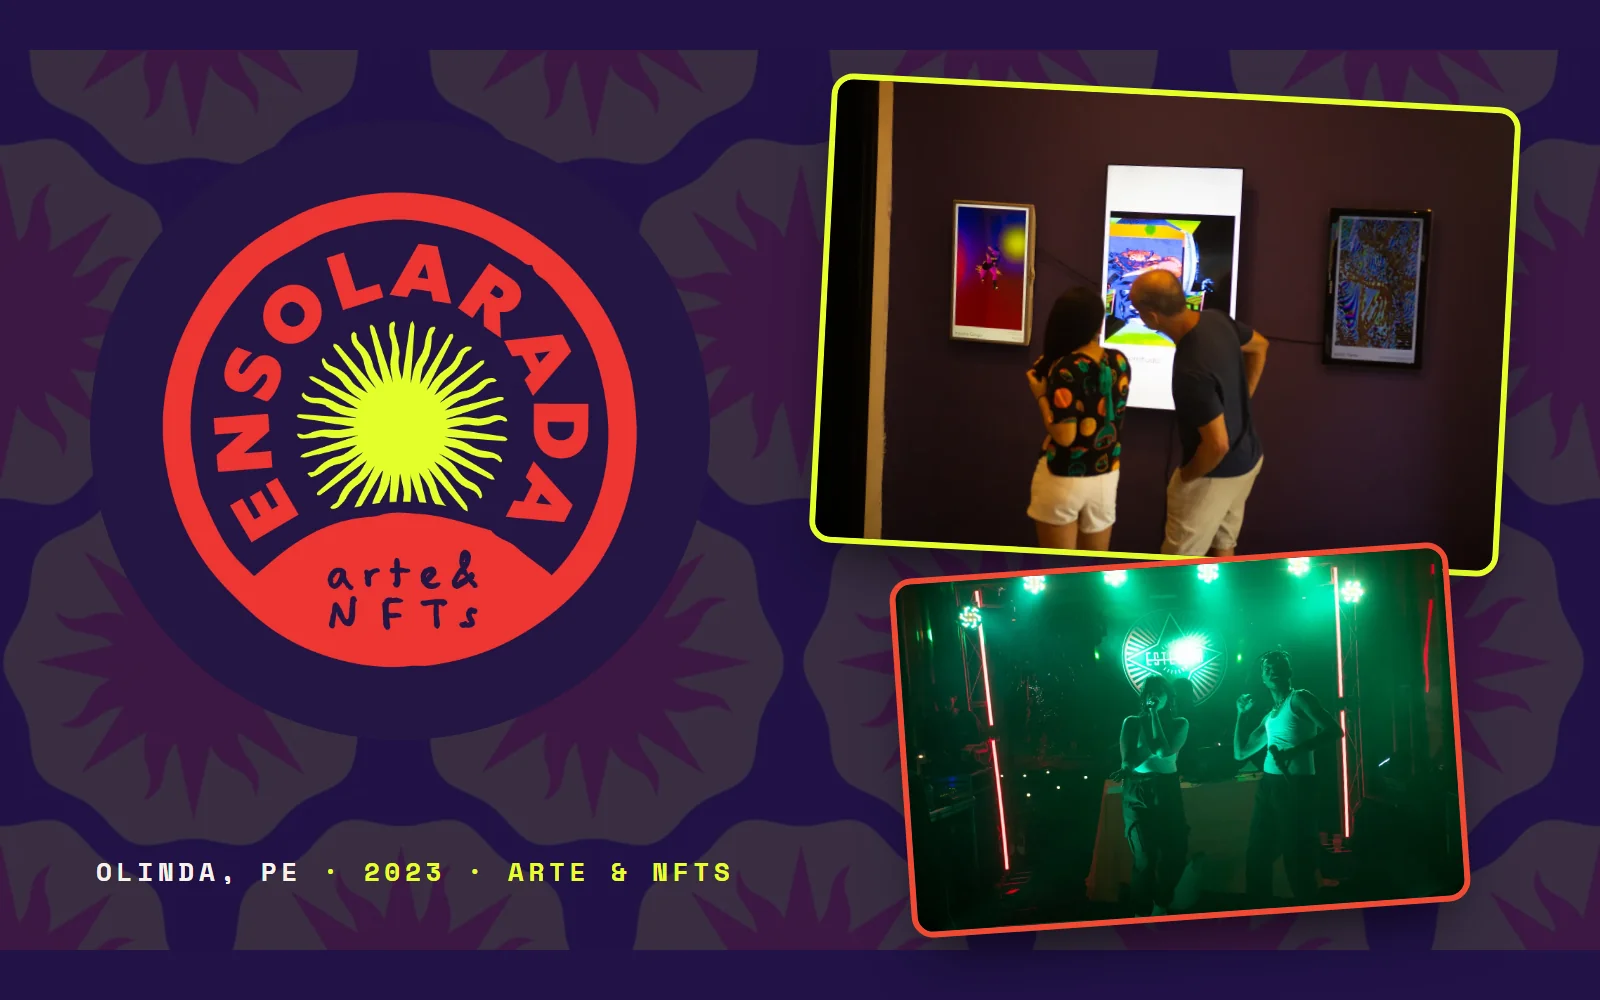
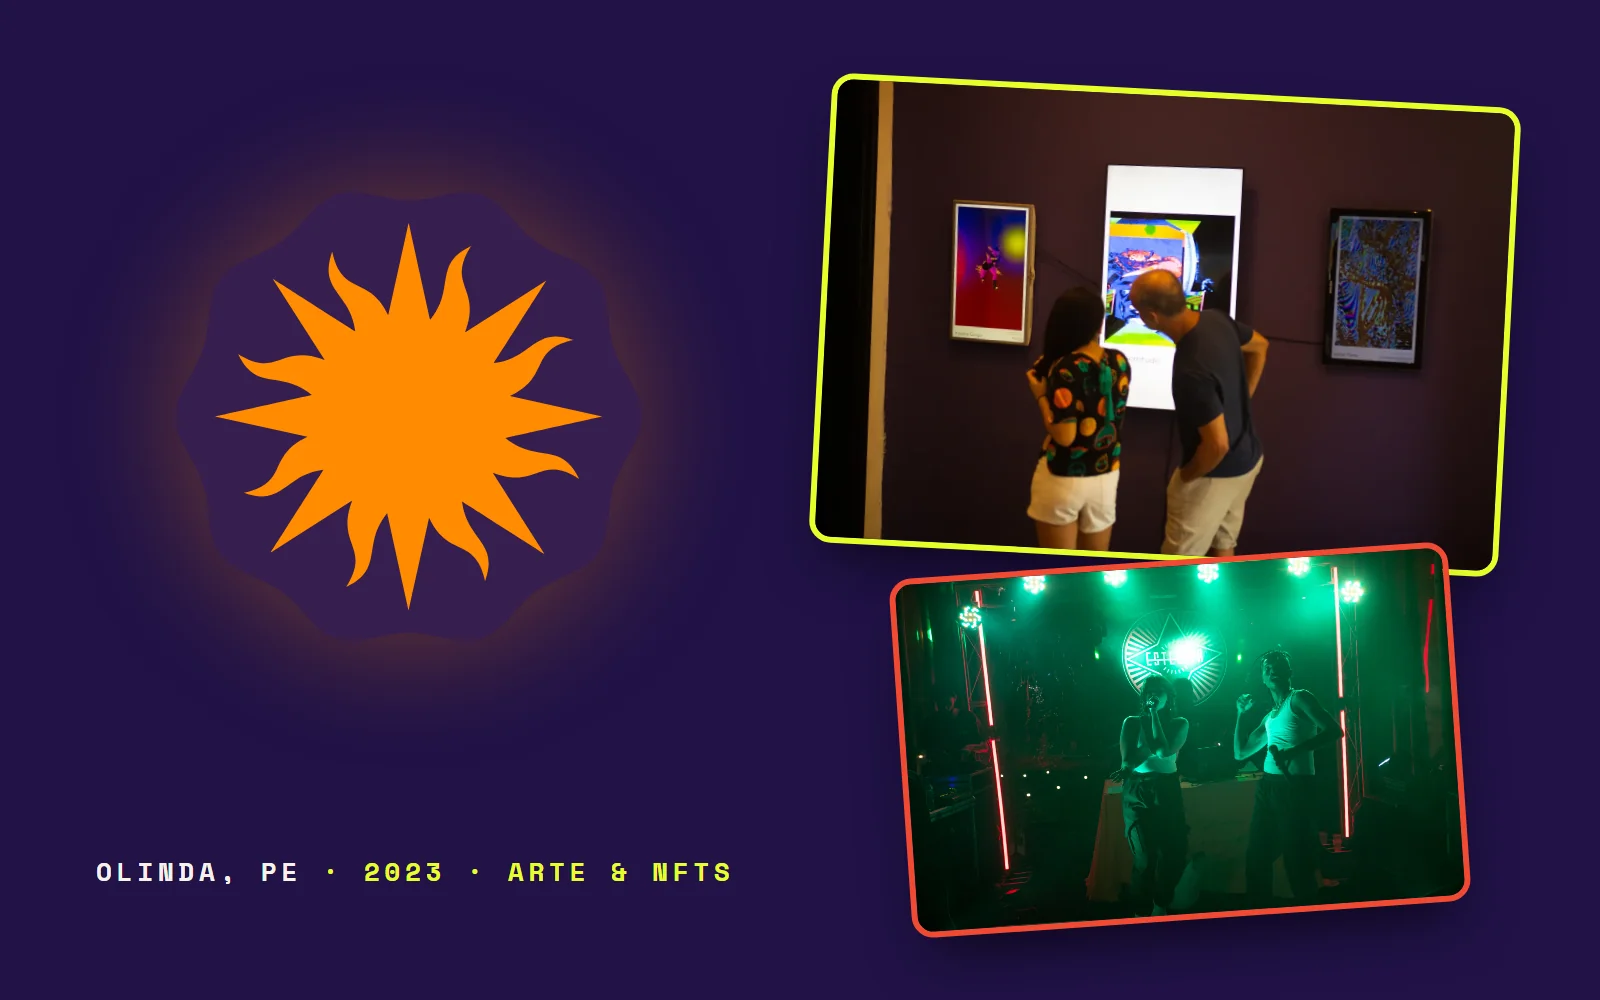
Ensolarada: Collector archive, 2024 pattern, copy tweaks, new card cover
- Collector block with auto-scrolling page capture before the metaverse
- Rebrand uses the 2024 background pattern
- Overview/role copy trimmed; talk and kids photos in the middle column
- Design card cover: 2024 sun icon, no pattern

diff --git a/ensolarada.html b/ensolarada.html
@@ -212,6 +212,17 @@
   .works .figure{aspect-ratio:4/5}
   .works .figure:first-child{grid-column:span 2;grid-row:span 2;aspect-ratio:auto}
   .works .figure--left video{object-position:left center}
+  .collector{display:grid;grid-template-columns:1fr 1fr;gap:clamp(20px,4vw,48px);align-items:center;margin-top:36px}
+  .collector h4{font-family:var(--font-display);font-size:clamp(19px,2.2vw,24px);margin:0 0 8px}
+  .collector p{margin:0;max-width:52ch}
+  .collector .tag{display:inline-block;margin-bottom:12px;font-family:var(--font-mono);font-size:10.5px;letter-spacing:.12em;
+    text-transform:uppercase;padding:6px 11px;border-radius:999px;border:1px solid rgba(230,255,42,.35);color:var(--sun)}
+  .scrollshot{position:relative;aspect-ratio:1/1;border-radius:14px;overflow:hidden;border:1px solid var(--line);background:#fff;container-type:size}
+  .scrollshot::before{content:"";position:absolute;inset:0 0 auto 0;height:26px;z-index:2;background:#e9e6ef;
+    background-image:radial-gradient(circle at 14px 13px,#F04A33 4px,transparent 5px),radial-gradient(circle at 30px 13px,#E6FF2A 4px,transparent 5px),radial-gradient(circle at 46px 13px,#5B2A86 4px,transparent 5px)}
+  .scrollshot img{position:absolute;top:26px;left:0;width:100%;height:auto;display:block;animation:pagescroll 38s ease-in-out infinite alternate}
+  .scrollshot:hover img{animation-play-state:paused}
+  @keyframes pagescroll{0%,6%{transform:translateY(0)}94%,100%{transform:translateY(calc(-100% + 100cqh - 26px))}}
   .metawalk{display:grid;grid-template-columns:1fr .5625fr;gap:14px;margin-top:28px}
   .metaverse{aspect-ratio:1/1}
   .metaverse figcaption{font-size:14px}
@@ -282,6 +293,7 @@
     .elements img{height:110px;max-width:28%}
     .elements img:nth-child(n){height:110px}
     .metawalk{grid-template-columns:1fr}
+    .collector{grid-template-columns:1fr}
     .metawalk .walk{max-width:320px;width:100%;margin-inline:auto;aspect-ratio:9/16}
     .reel-wrap{max-width:360px;width:100%;margin-inline:auto}
     .vcredit{position:static;margin-top:8px}
@@ -346,7 +358,7 @@
       <div>
         <div class="kicker"><span class="num" data-i18n="enso.ov_num">OVERVIEW</span><span class="line"></span></div>
         <h2 data-i18n-html="enso.ov_h2">Art &amp; NFTs under the sun<span class="dot">.</span></h2>
-        <p class="body" data-i18n-html="enso.ov_p1">A project about <strong>decentralizing NFT culture</strong> — valuing and paying artists from Brazil, far from the usual art-and-crypto hubs. The goal: build an artistic and technological scene right here, in Pernambuco.</p>
+        <p class="body" data-i18n-html="enso.ov_p1">A project about <strong>decentralizing NFT culture</strong> — valuing and paying artists from Brazil, far from the usual art-and-crypto hubs.</p>
         <p class="body" data-i18n-html="enso.ov_p2">It happened through photographer <strong>JT Liss</strong>'s initiative to promote art events on Solana around the world, with initial support from the <strong>Solana Foundation</strong> — plus digital and local communities, NFT art projects and collectors.</p>
         <div class="stats">
           <div class="stat"><div class="n">15</div><div class="l" data-i18n="enso.st_artists">Artists from Northeast Brazil</div></div>
@@ -369,7 +381,7 @@
     <div class="wrap">
       <div class="kicker"><span class="num" data-i18n="enso.role_num">MY ROLE</span><span class="line"></span></div>
       <h2 data-i18n-html="enso.role_h2">One person, four hats<span class="dot">.</span></h2>
-      <p class="body" data-i18n="enso.role_body">Ensolarada was my idea and my production. I took it from the sponsorship deck to the closing party — designing it, running it, telling its story online and choosing who would be on the walls.</p>
+      <p class="body" data-i18n="enso.role_body">Ensolarada was my idea and my production. I took it from the sponsorship deck to the closing party — designing it, running it, telling its story online and carefully building an interesting curation.</p>
 
       <div class="roles">
         <div class="role"><span class="rn">01</span><span class="rt" data-i18n="enso.r1_t">Visual Identity</span><span class="rd" data-i18n="enso.r1_d">Logo, palette, patterns, signage, plaques and screens.</span><svg viewBox="0 0 912 809"><use href="#sunpath"/></svg></div>
@@ -439,11 +451,11 @@
           <div class="ev"><div class="t">→ 22:00</div><div class="d" data-i18n="enso.d5">Pocket shows by Barbarize &amp; Tagore + DJ set by Numa</div></div>
         </div>
         <div class="rgal rgal--3">
-          <figure class="figure"><img src="assets/img/projects/ensolarada/photos/talk-1.webp" alt="Numa giving a talk in front of a screen" loading="lazy"></figure>
           <figure class="figure"><img src="assets/img/projects/ensolarada/photos/talk-room.webp" alt="Audience during the talk" loading="lazy"></figure>
+          <figure class="figure"><img src="assets/img/projects/ensolarada/photos/talk-1.webp" alt="Numa giving a talk in front of a screen" loading="lazy"></figure>
           <figure class="figure"><video src="assets/img/projects/ensolarada/photos/roda-video.mp4" autoplay muted loop playsinline></video></figure>
-          <figure class="figure"><img src="assets/img/projects/ensolarada/photos/kids.webp" alt="Kids with printed artworks" loading="lazy" style="object-position:center 35%"></figure>
           <figure class="figure"><img src="assets/img/projects/ensolarada/photos/show-night.webp" alt="Pocket show at night" loading="lazy"></figure>
+          <figure class="figure"><img src="assets/img/projects/ensolarada/photos/kids.webp" alt="Kids with printed artworks" loading="lazy" style="object-position:center 35%"></figure>
           <figure class="figure"><img src="assets/img/projects/ensolarada/photos/expo-viewers.webp" alt="Visitors looking at screens on the violet wall" loading="lazy" style="transform:scale(1.25);transform-origin:right center"></figure>
         </div>
       </div>
@@ -515,6 +527,14 @@
           <span class="artist">Barbarize<small>PE</small></span>
           <span class="artist">Matheus Ciberdelia<small>PE</small></span>
         </div>
+        <div class="collector">
+          <div>
+            <span class="tag" data-i18n="enso.col_tag">Collector · archive</span>
+            <h4 data-i18n="enso.col_h">Sold on Collector</h4>
+            <p data-i18n="enso.col_p">The NFTs were sold on Collector, a Solana platform for curated exhibitions that no longer exists. This is the show's page there, saved before it went offline.</p>
+          </div>
+          <figure class="figure scrollshot"><img src="assets/img/projects/ensolarada/photos/collector-page.webp" alt="Ensolarada exhibition page on Collector" loading="lazy"></figure>
+        </div>
         <div class="metawalk">
           <figure class="figure metaverse"><video src="assets/img/projects/ensolarada/works/praia-da-criatura.mp4" autoplay muted loop playsinline></video><span class="tag" data-i18n="enso.tag_metaverse">Metaverse · 3.land</span><figcaption><b>Praia da Criatura</b><span data-i18n="enso.metaverse_cap">The show’s metaverse version — built and exhibited by 3.land.</span></figcaption></figure>
           <figure class="figure walk"><video src="assets/img/projects/ensolarada/works/metaverse-walk.mp4" autoplay muted loop playsinline preload="metadata"></video><span class="tag" data-i18n="enso.tag_walk">Walkthrough</span></figure>
@@ -535,7 +555,7 @@
         </div>
         <div class="rb__side">
           <div class="rb__logo"><img src="assets/img/projects/ensolarada/id/ensolarada_horizontal.svg" alt="Ensolarada 2024 logo" loading="lazy"></div>
-          <figure class="figure"><img src="assets/img/projects/ensolarada/id/pattern-1.webp" alt="Ensolarada sun pattern" loading="lazy"></figure>
+          <figure class="figure"><img src="assets/img/projects/ensolarada/id/bg-2024.webp" alt="Ensolarada 2024 sun pattern" loading="lazy"></figure>
         </div>
       </div>
     </div>
